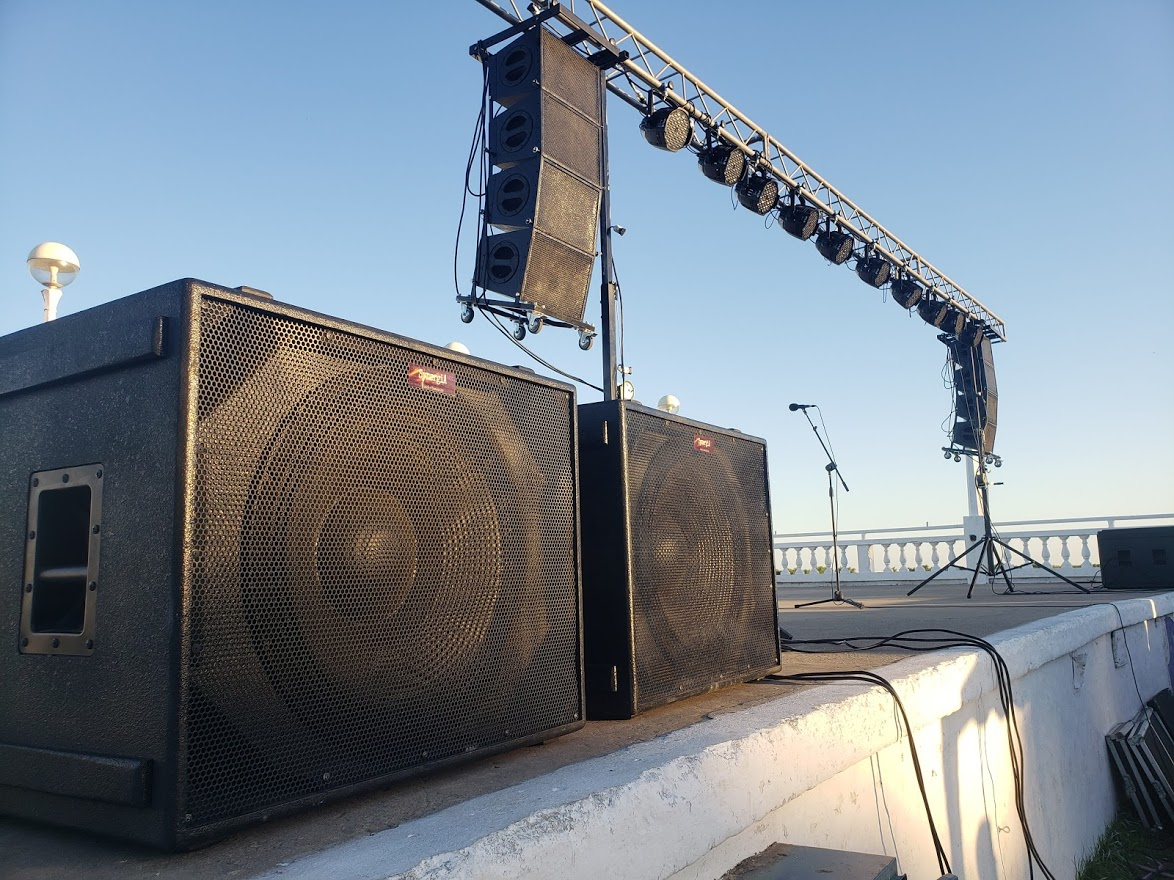
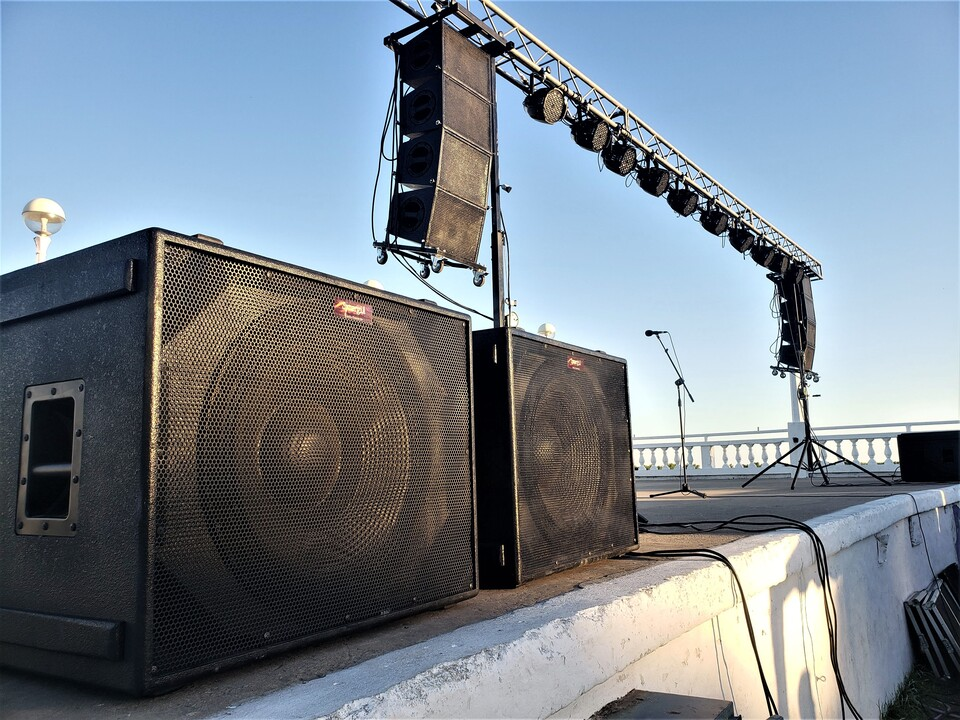
igualar y comprimir img

diff --git a/index.html b/index.html
@@ -49,6 +49,7 @@
                     <li class="nav-item"><a class="nav-link" href="#">Galería</a></li>
                     <li class="nav-item"><a class="nav-link" href="#">Eventos</a></li>
                     <li class="nav-item"><a class="nav-link" href="#">Presupuesto</a></li>
+                    
                 </ul>
             </div>
             <!-- Button Menu Star-->
@@ -86,7 +87,7 @@
                 <div class="row">
                     <div class="col-xs-12 col-sm-12 col-md-6 col-lg-6 col-xl-6 col-xxl-3 column">
                         <div class="card" data-aos="fade-right" >
-                            <img class="img-card" src="img/palco.jpg" />
+                            <img class="img-card img-fluid" src="img/palco.jpg" />
                             <div class="card-content">
                                 <h4 class="card-title" data-aos="zoom-in-down">Sonido Profesional </h4>
                                 <p class="parrafo"> Más de 75000 watts de potencia bi-amplificada, nos permite hacer frente a cualquier tamaño de evento</p>
@@ -99,7 +100,7 @@
                     <!-- Single card service area star -->
                     <div class="col-xs-12 col-sm-12 col-md-6 col-lg-6 col-xl-6 col-xxl-3 column">
                         <div class="card" data-aos="fade-right">
-                            <img class="img-card" src="img/palco.jpg" />
+                            <img class="img-card img-fluid" src="img/cabezales.jpg" />
                             <div class="card-content">
                                 <h4 class="card-title" data-aos="zoom-in-down">Luces robóticas led</h4>
                                 <p class="parrafo">Cabezales robóticos, luces de escenario, luces puntuales, con sistema DMX y bajo consumo por su naturaleza led</p>
@@ -112,7 +113,7 @@
                     <!-- Single card service area star -->
                     <div class="col-xs-12 col-sm-12 col-md-6 col-lg-6 col-xl-6 col-xxl-3 column">
                         <div class="card" data-aos="fade-left">
-                            <img class="img-card" src="img/luces.jpg" />
+                            <img class="img-card img-fluid" src="img/laser.jpg" />
                             <div class="card-content">
                                 <h4 class="card-title" data-aos="zoom-in-down">Show láser</h4>
                                 <p class="parrafo">Lásers de alta potencia, con escenas para aperturas de eventos hechas a medida, para una experiencia única</p>
@@ -125,7 +126,7 @@
                     <!-- Single card service area star -->
                     <div class="col-xs-12 col-sm-12 col-md-6 col-lg-6 col-xl-6 col-xxl-3 column">
                         <div class="card" data-aos="fade-left">
-                            <img class="img-card" src="img/mas_luces.jpg" />
+                            <img class="img-card img-fluid" src="img/dj.jpg" />
                             <div class="card-content">
                                 <h4 class="card-title" data-aos="zoom-in-down">Servicio de DJ</h4>
                                 <p class="parrafo">La mejor música, mexclada por profesionales, una perfecta combinación para disfrutar de toda la fiesta</p>

diff --git a/css/styles.css b/css/styles.css
@@ -176,13 +176,9 @@ h2{
 
 
 .img-card {
-  height: auto;
-  max-width: 100%;
-  vertical-align: middle;
   border-top-left-radius: 0.025rem;
   border-top-right-radius: 0.25rem;
   overflow: hidden;
-  vertical-align: middle;
   transition: 0.25s;
 }
 
@@ -231,7 +227,6 @@ h2{
 .parrafo{
   text-align: center;
   color:#ffffff
-  
 }
 
 button{
